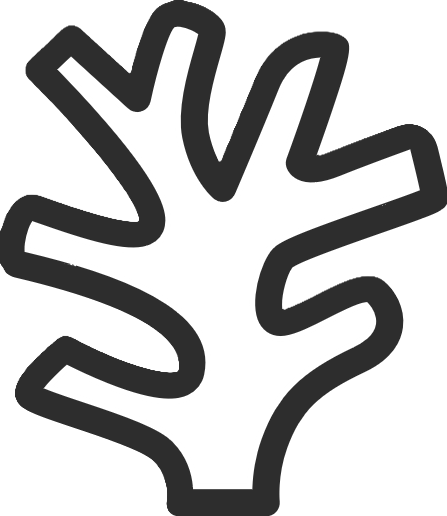
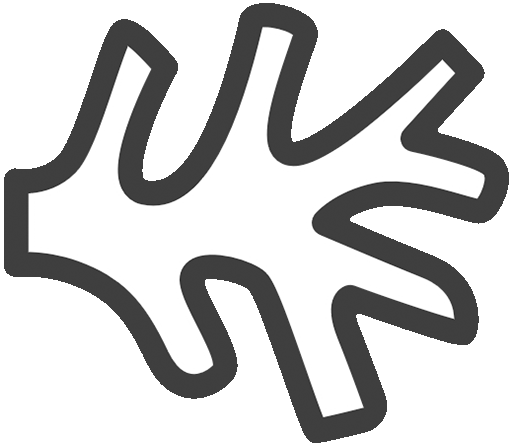
Added few util scripts and transparent edge trimming on generator

diff --git a/krpc_cv_py/createTrainingData.py b/krpc_cv_py/createTrainingData.py
@@ -10,6 +10,7 @@ At time of export, for each level, a labels.json file is also generated for each
 """
 import os
 import json
+import re
 from typing import List
 import cv2
 import numpy as np
@@ -122,24 +123,41 @@ def getNonOverlappingBoundingBoxes(existing_bounding_boxes: List[List[int]], wid
 
     return new_bounding_box
 
-def rotate_image(img, angle, isAlpha=False):
+def rotate_image(img, angle):
     size_reverse = np.array(img.shape[1::-1]) # swap x with y
     M = cv2.getRotationMatrix2D(tuple(size_reverse / 2.), angle, 1.)
     MM = np.absolute(M[:,:2])
     size_new = MM @ size_reverse
     M[:,-1] += (size_new - size_reverse) / 2.
-    return cv2.warpAffine(img, M, tuple(size_new.astype(int)), borderMode=cv2.BORDER_CONSTANT, borderValue=(255, 255, 255) if not isAlpha else 0)
+    rotated_image = cv2.warpAffine(img, M, tuple(size_new.astype(int)), borderMode=cv2.BORDER_CONSTANT, borderValue=(255, 255, 255))
+
+    return rotated_image
+
+def trim_image(image):    
+    # Find the non-transparent pixels (where alpha > 0)
+    if image.shape[2] == 4:  # Ensure we have an alpha channel
+        alpha_channel = image[:, :, 3]
+        # Find coordinates of non-transparent pixels
+        non_transparent_coords = np.column_stack(np.where(alpha_channel > 0))
+        
+        if len(non_transparent_coords) > 0:
+            # Get the bounding box of non-transparent pixels
+            min_row, min_col = np.min(non_transparent_coords, axis=0)
+            max_row, max_col = np.max(non_transparent_coords, axis=0)
+            
+            # Crop the image to the bounding box
+            cropped_image = image[min_row:max_row+1, min_col:max_col+1]
+            return cropped_image
+    
+    return image # If no non-transparent pixels, return the original image
 
 def main(item_name: str, image_per_level: int, allowed_overlap: float = 0.5):
     item_name = item_name.split(".")[0]
     item = cv2.imread(f"{input_path}/{item_name}.png", cv2.IMREAD_UNCHANGED)
     
-    item_alpha = item[:,:,3]
-    item = item[:,:,:3]
-
     global item_height, item_width
 
-    item_width = 60 * 2
+    item_width = 65 * 2
     item_height = 0
 
     if item.shape[0] > item.shape[1]:
@@ -148,14 +166,7 @@ def main(item_name: str, image_per_level: int, allowed_overlap: float = 0.5):
     else:
         item_height = int(item_width * item.shape[0] / item.shape[1])
     
-    item = cv2.resize(item, (item_width, item_height))
-    item_alpha = cv2.resize(item_alpha, (item_width, item_height))
-    
-    item_bg = np.ones(item.shape, np.uint8) * 255
-    item_bg = cv2.bitwise_or(item_bg, item_bg, mask=cv2.bitwise_not(item_alpha))
-
-    item = cv2.bitwise_or(item_bg, item)
-
+    item = cv2.resize(item, (item_width, item_height), interpolation=cv2.INTER_AREA)
     for i in range(len(levels)):
         print("Creating Level", i + 1, "Images")
         level = levels[i]
@@ -165,27 +176,22 @@ def main(item_name: str, image_per_level: int, allowed_overlap: float = 0.5):
             num_items = np.random.randint(level.min_items, level.max_items + 1)
             bounding_boxes = []
 
-            image = np.ones(image_dimensions + (3,), np.uint8) * 255
+            image = np.ones(image_dimensions + (4,), np.uint8) * 255
 
             for _ in range(num_items):
                 item_copy = item.copy()
-                item_alpha_copy = item_alpha.copy()
-                item_copy = cv2.bitwise_and(item_copy, item_copy, mask=item_alpha_copy)
+
                 scale = 1
 
                 if level.scaling:
-                    scale = np.random.uniform(0.7, 1.1)
-                    item_copy = cv2.resize(item_copy, (int(item_width * scale), int(item_height * scale)))
-                    item_alpha_copy = cv2.resize(item_alpha_copy, (int(item_width * scale), int(item_height * scale)))
+                    scale = np.random.uniform(0.65, 1.0)
+                    item_copy = cv2.resize(item_copy, (int(item_width * scale), int(item_height * scale)), interpolation=cv2.INTER_AREA)
 
                 if level.rotation: # Rotate between 0 and 360 degrees at stops of 45 degrees
                     angle = np.random.randint(0, 8) * 45
-
-                    size = item_copy.shape[1], item_copy.shape[0]
-                    # item_copy = cv2.resize(imutils.rotate_bound(item_copy, angle), size)
-                    # item_alpha_copy = cv2.resize(imutils.rotate_bound(item_alpha_copy, angle), size)
                     item_copy = rotate_image(item_copy, angle)
-                    item_alpha_copy = rotate_image(item_alpha_copy, angle, True)
+                
+                item_copy = trim_image(item_copy) # Trim the image to remove transparent pixels
                     
                 x1 = np.random.randint(0, image_dimensions[1] - item_copy.shape[1])
                 y1 = np.random.randint(0, image_dimensions[0] - item_copy.shape[0])
@@ -204,18 +210,13 @@ def main(item_name: str, image_per_level: int, allowed_overlap: float = 0.5):
                         break
 
                 # Place item on image with alpha by converting alpha channel to a 3 channel image
-                alpha = item_alpha_copy.astype(float) / 255
-                alpha = cv2.merge((alpha, alpha, alpha))
-
-                item_copy = cv2.multiply(alpha, item_copy.astype(float)).astype(np.uint8) # Black out pixels outside the item on item image
+                alpha = cv2.merge((item_copy[:,:,3] / 255,) * 4).astype(np.uint8) # Invert alpha to black out the item
+                item_copy = cv2.multiply(alpha, item_copy) # Black out pixels outside the item on item image
+                
                 image_sub = cv2.multiply(1.0 - alpha, image[y1:y2, x1:x2].astype(float)).astype(np.uint8) # Black out pixels inside the item on main image
                 image[y1:y2, x1:x2] = cv2.add(image_sub, item_copy) # (Black Outside + Item) + (Black Inside + Main Image)
 
                 bounding_boxes.append([x1, y1, x2, y2])
-
-            # cv2.imshow(f"Level {i + 1}", image)
-            # cv2.waitKey(0)
-            # cv2.destroyAllWindows()
 
             image_name = f"{item_name}_level_{i + 1}_{image_idx + 1}.png"
             image_path = f"{output_path}/{item_name}/level_{i + 1}/{image_name}"

diff --git a/krpc_cv_py/visualize_xml_dataset.py b/krpc_cv_py/visualize_xml_dataset.py
@@ -1,0 +1,19 @@
+import fiftyone as fo
+from fiftyone.types import VOCDetectionDataset
+
+# Path to the dataset
+dataset_dir = "./coco_data/xml_data/train_data"
+data_path = f"{dataset_dir}/data"
+labels_path = f"{dataset_dir}/labels"
+
+# Load the dataset
+dataset = fo.Dataset.from_dir(
+    dataset_type=VOCDetectionDataset,
+    dataset_dir=dataset_dir,
+    dataset_name="xml_dataset"
+)
+
+# Launch FiftyOne app
+session = fo.launch_app(dataset)
+session.wait()
+
